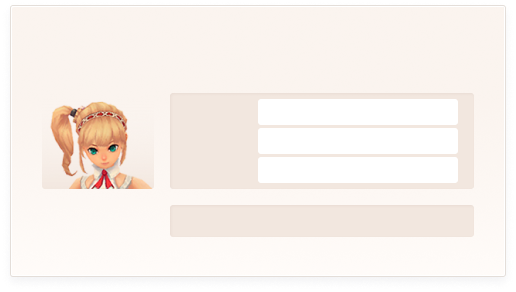
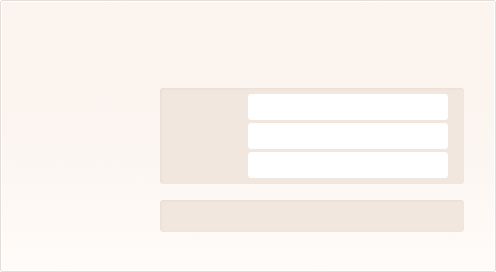
finish menu

diff --git a/src/MasterWidget.cpp b/src/MasterWidget.cpp
@@ -20,8 +20,8 @@ MasterWidget::MasterWidget(QWidget* parent)
   _loginWidgetUI.setupUi(_masterFrameUI.login_widget);
   _masterFrameUI.login_widget->show();
 
-  _menuWidgetUI.setupUi(_masterFrameUI.launcher_widget);
-  _masterFrameUI.launcher_widget->hide();
+  _menuWidgetUI.setupUi(_masterFrameUI.menu_widget);
+  _masterFrameUI.menu_widget->hide();
 
   connect(_masterFrameUI.btn_exit, SIGNAL(clicked()), this, SLOT(handle_btn_exit()));
   connect(_loginWidgetUI.btn_login, SIGNAL(clicked()), this, SLOT(handle_login()));
@@ -29,8 +29,6 @@ MasterWidget::MasterWidget(QWidget* parent)
   this->setWindowFlags(Qt::Widget | Qt::FramelessWindowHint);
   this->setAttribute(Qt::WA_NoSystemBackground, true);
   this->setAttribute(Qt::WA_TranslucentBackground, true);
-
-  //this->master_frame->setFrameStyle(QFrame::StyledPanel);
 }
 
 void MasterWidget::mousePressEvent(QMouseEvent *event)
@@ -60,7 +58,7 @@ void MasterWidget::handle_btn_exit()
 void MasterWidget::handle_login()
 {
   this->_masterFrameUI.login_widget->hide();
-  this->_masterFrameUI.launcher_widget->show();
+  this->_masterFrameUI.menu_widget->show();
 }
 
 void MasterWidget::handle_btn_launch()
